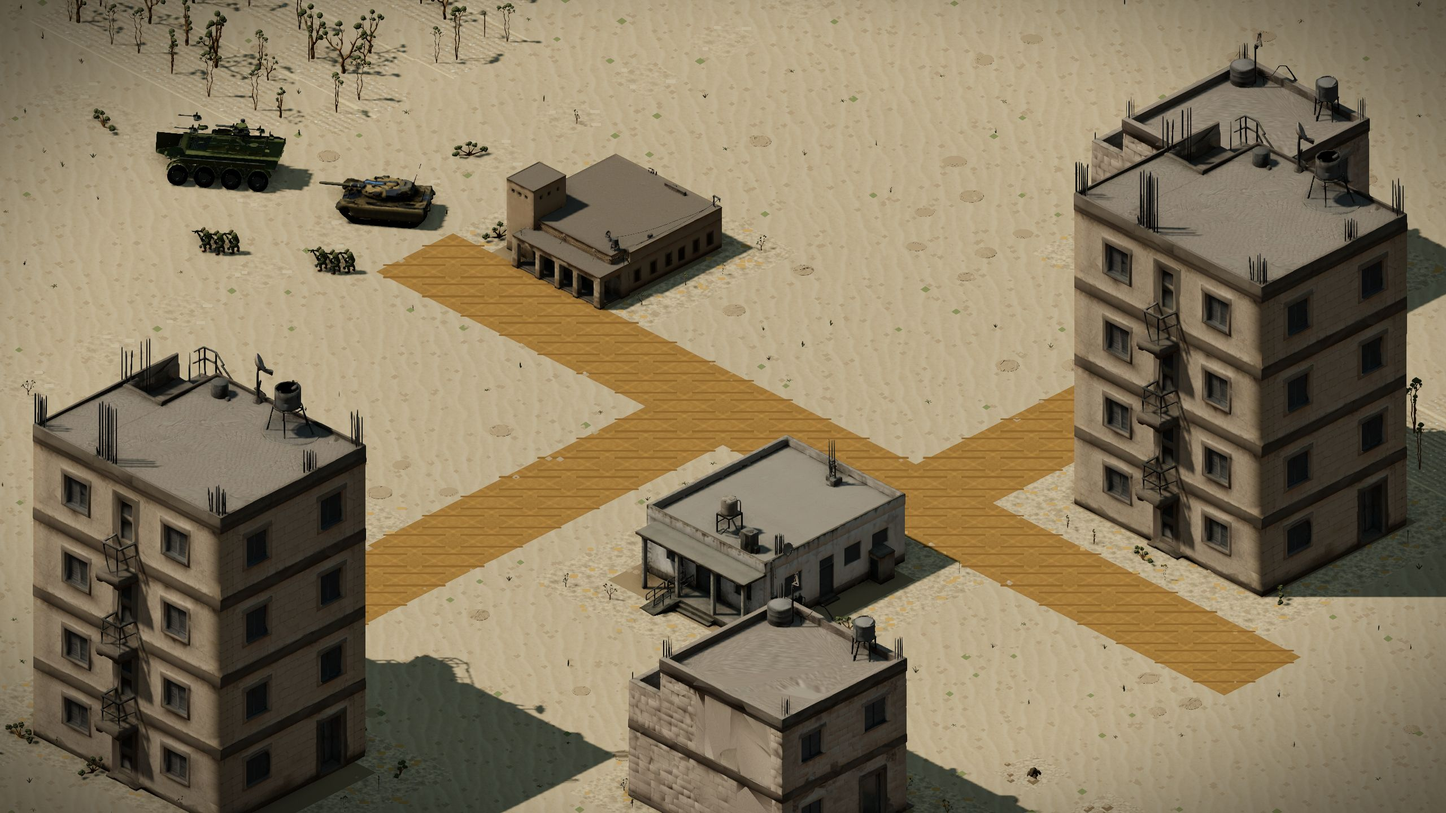
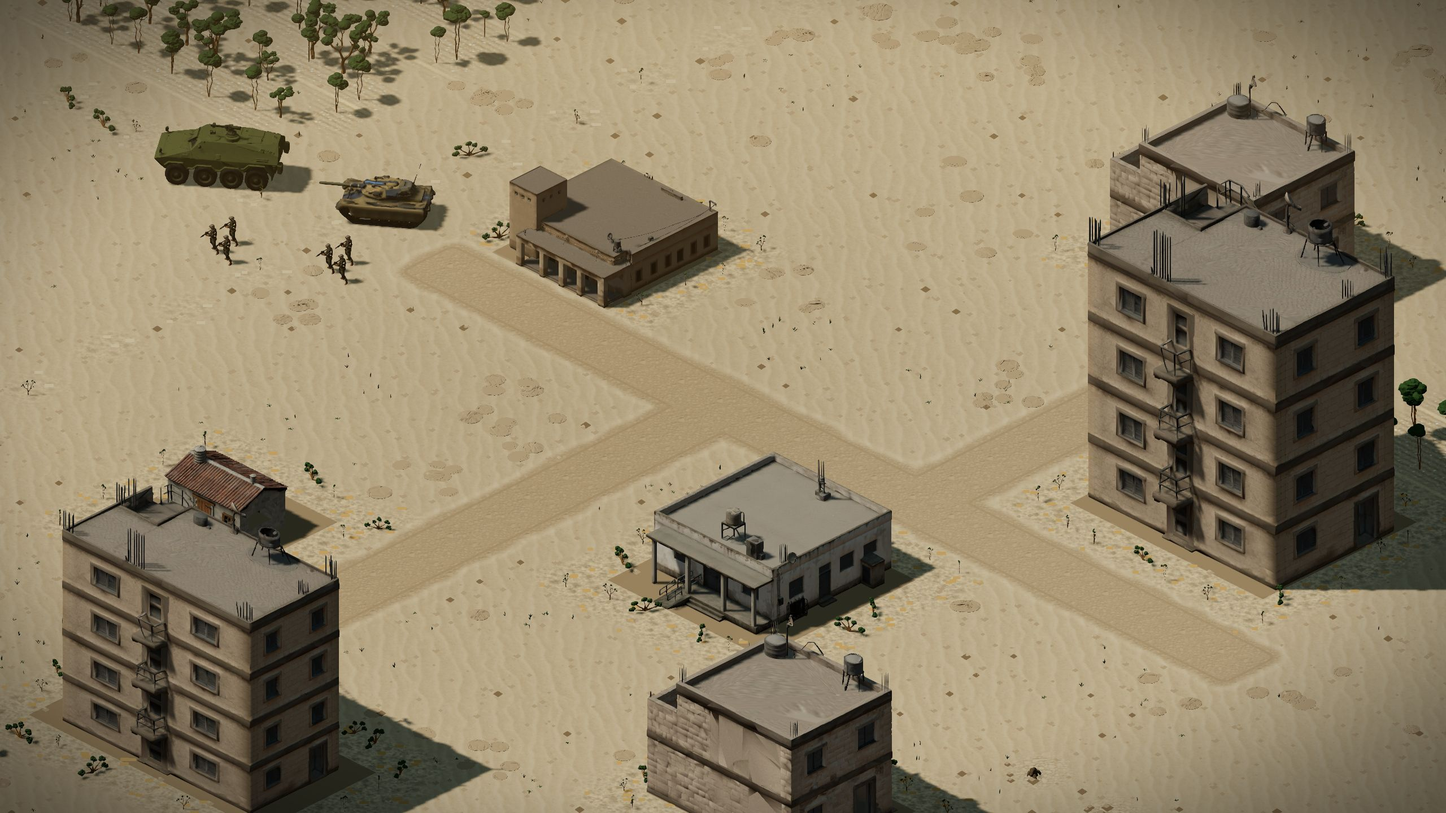
app: foliage moves to scrub, off the KDF olive (VR-05) -- bless after merge (#683)
* app: foliage moves to scrub, off the KDF olive (VR-05)

VR-05 option 1, approved by the lead off the VR-04/05 mock. Every mesh
foliage family (tree, desert_tree, bush, grass, cedar) and the scatter
tussock (`low`) draw scrub.1 on every theme, through a theme `decorColors`
tint (+0 draw calls). Before, they drew the decor ramp's lift, olive.1,
which is the KDF uniform's own albedo; the highland bush was olive.2.
As in the mock, leafDark/Mid/Lit (grove.ts, which draws nothing) and
highland cover are untouched.

Measured on Khan Rafid II and Umm Zeitoun IV with the mock's method
(ΔE2000, unit against foliage):
- arid Namer: 3.8/2.9 -> 11.2/9.4
- highland Namer: 5.5/6.0 -> 13.3/13.5
- arid Eitan: flat, as in the mock (6.1/4.8 -> 6.5/5.0)

tools/src/foliage-figure-ground.test.ts:
- pins every family's foliage key and `low` on every theme;
- adds a figure-ground guard: olive.1 is at least CIE76 15 (cvd.ts
  labDistance) from each drawn foliage tone.
- On main it was red: 6 failures (olive.1 at 0.00).
- Mutation bush -> olive.2 is red at 13.77.
- Mutation arid low -> olive.1 is red.

terrain-defaults.fixture.json is regenerated deliberately for every
non-highland map, because `low` feeds the scatter grain. Reverting `low`
alone passes all 25 pins, so decorColors moves no composed byte.

This moves every gated golden frame, so it needs a bless from CI numbers.
Layer-check floors are left unchanged.
[…]

diff --git a/tools/src/foliage-figure-ground.test.ts b/tools/src/foliage-figure-ground.test.ts
@@ -1,0 +1,198 @@
+/**
+ * VR-05 (option 1, the lead's approval of the VR-04/05 mock): foliage moves
+ * to `scrub.1`, off the KDF olive.
+ *
+ * Before this, every mesh foliage family on every theme drew the decor
+ * `foliage` ramp's lift, `olive.1` -- the SAME key a KDF uniform lifts to
+ * (`units/mesh-role.ts`, the `olive` ramp), so a rifleman in a grove was
+ * olive on olive, and the mock measured an arid Namer against arid foliage at
+ * ΔE2000 2.0-3.6 in the rendered frame. Option 1 tints every foliage family
+ * (`decorColors['<family>:foliage']`) and the scatter tussock (`low`) on arid
+ * and highland with `scrub.1` (green kept as it was, by the lead's ruling), the cedar's approved blue-green -- exactly the mock's
+ * prototype (`terrainTonesFor` writing all five families plus `low`).
+ *
+ * `leafDark`/`leafMid`/`leafLit` are NOT moved, because the mock did not move
+ * them: they feed `grove.ts`, whose layer has drawn nothing since the mesh
+ * trees (CLAUDE.md). Highland `cover` (a ground tint) is not moved either.
+ *
+ * The oracle takes LITERALS: the uniform key and the untinted decor lift are
+ * written here, not imported from the renderer, so a change on either side
+ * cannot shift both halves of the comparison together.
+ */
+import { describe, expect, it } from 'vitest';
+import { paletteColor } from '@lions/data';
+import { TERRAIN_THEMES } from '../../packages/app/src/terrain-themes';
+import { labDistance, toLab } from './cvd';
+
+/** The KDF uniform's lit albedo (`mesh-role.ts`: the `olive` ramp's lift). */
+const KDF_UNIFORM_KEY = 'olive.1';
+/** What an UNTINTED foliage family draws: the decor `foliage` ramp's lift
+ *  (`decor-role.ts`, `sliceFrom('olive', 0)` through `liftTone`, index 1). */
+const UNTINTED_FOLIAGE_KEY = 'olive.1';
+/** Every decor family that carries a `foliage` role. */
+const FOLIAGE_FAMILIES = ['tree', 'desert_tree', 'bush', 'grass', 'cedar'] as const;
+/**
+ * Green is EXCLUDED by the lead's ruling: the Wadi Halam frames were mixed (the
+ * Eitan reads worse on scrub), so green keeps its foliage as it was. It is
+ * pinned UNMOVED below instead.
+ */
+const THEMES = ['arid', 'highland'] as const;
+
+/**
+ * WHAT THIS GUARD IS: a regression pin on the palette-KEY bracket, nothing
+ * more. It refuses `olive.1` and `olive.2` and accepts `scrub.1`, measured as
+ * CIE76 against `olive.1` through `tools/src/cvd.ts` (the repo's colour
+ * instrument). CIE76 against `olive.1`:
+ *   olive.1 0.00 (arid status quo), olive.2 13.77 (highland bush
+ *   status quo), scrub.1 15.89 (option 1), scrub.0 16.29.
+ * The floor of 15 sits between the two keys that bracket the lead's decision
+ * (13.77 refused, 15.89 accepted). It is not a rendered-frame measurement: the
+ * mock measured highland's olive.2 bush leaving the highland Namer at ΔE2000
+ * 7.4 / 7.7 in the frame against option 1's 13.4 / 12.9.
+ *
+ * CIE76 is the WRONG ruler for one neighbour. The same keys in ΔE2000 against
+ * `olive.1`: olive.2 11.77, scrub.1 12.60, scrub.0 9.81. `scrub.0` would
+ * PASS the CIE76 pin (16.29) while being WORSE than `olive.2` in ΔE2000, so
+ * it is refused explicitly below, by its ΔE2000 (a floor of 12, between
+ * scrub.0's 9.81 and scrub.1's 12.60), computed from `cvd.ts`'s Lab.
+ */
+const MIN_FIGURE_GROUND_DE76 = 15;
+
+/** A hex to LINEAR RGB, the input `labDistance` takes (the IEC 61966-2-1
+ *  curve; `cvd.ts` keeps its own decoder private behind `simulate`). */
+const linearHex = (hex: string): readonly [number, number, number] => {
+  const h = hex.replace('#', '');
+  const c = [0, 2, 4].map((i) => parseInt(h.slice(i, i + 2), 16) / 255);
+  return c.map((v) => (v <= 0.04045 ? v / 12.92 : ((v + 0.055) / 1.055) ** 2.4)) as unknown as readonly [
+    number,
+    number,
+    number,
+  ];
+};
+const linear = (key: string): readonly [number, number, number] => linearHex(paletteColor(key));
+
+/** CIEDE2000 between two linear-RGB colours (Sharma et al. 2005), on `cvd.ts`'s Lab. */
+function deltaE2000(
+  c1: readonly [number, number, number],
+  c2: readonly [number, number, number]
+): number {
+  const [L1, a1, b1] = toLab(c1);
+  const [L2, a2, b2] = toLab(c2);
+  const rad = Math.PI / 180;
+  const C1 = Math.hypot(a1, b1);
+  const C2 = Math.hypot(a2, b2);
+  const Cb7 = ((C1 + C2) / 2) ** 7;
+  const G = 0.5 * (1 - Math.sqrt(Cb7 / (Cb7 + 25 ** 7)));
+  const a1p = (1 + G) * a1;
+  const a2p = (1 + G) * a2;
+  const C1p = Math.hypot(a1p, b1);
+  const C2p = Math.hypot(a2p, b2);
+  const h1p = ((Math.atan2(b1, a1p) / rad) + 360) % 360;
+  const h2p = ((Math.atan2(b2, a2p) / rad) + 360) % 360;
+  const dLp = L2 - L1;
+  const dCp = C2p - C1p;
+  let dh = h2p - h1p;
+  if (C1p * C2p === 0) dh = 0;
+  else if (dh > 180) dh -= 360;
+  else if (dh < -180) dh += 360;
+  const dHp = 2 * Math.sqrt(C1p * C2p) * Math.sin((dh * rad) / 2);
+  const Lbp = (L1 + L2) / 2;
+  const Cbp = (C1p + C2p) / 2;
+  let hbp = h1p + h2p;
+  if (C1p * C2p !== 0) {
+    if (Math.abs(h1p - h2p) > 180) hbp = h1p + h2p < 360 ? (hbp + 360) / 2 : (hbp - 360) / 2;
+    else hbp /= 2;
+  }
+  const T =
+    1 -
+    0.17 * Math.cos((hbp - 30) * rad) +
+    0.24 * Math.cos(2 * hbp * rad) +
+    0.32 * Math.cos((3 * hbp + 6) * rad) -
+    0.2 * Math.cos((4 * hbp - 63) * rad);
+  const dTheta = 30 * Math.exp(-(((hbp - 275) / 25) ** 2));
+  const Rc = 2 * Math.sqrt(Cbp ** 7 / (Cbp ** 7 + 25 ** 7));
+  const Sl = 1 + (0.015 * (Lbp - 50) ** 2) / Math.sqrt(20 + (Lbp - 50) ** 2);
+  const Sc = 1 + 0.045 * Cbp;
+  const Sh = 1 + 0.015 * Cbp * T;
+  const Rt = -Math.sin(2 * dTheta * rad) * Rc;
+  return Math.sqrt(
+    (dLp / Sl) ** 2 + (dCp / Sc) ** 2 + (dHp / Sh) ** 2 + Rt * (dCp / Sc) * (dHp / Sh)
+  );
+}
+
+/** The ΔE2000 floor: between scrub.0 (9.81, refused) and scrub.1 (12.60). */
+const MIN_FIGURE_GROUND_DE2000 = 12;
+
+/** The palette KEY a family's foliage resolves to on a theme (by hex). */
+function foliageHex(theme: (typeof THEMES)[number], family: string): string {
+  return TERRAIN_THEMES[theme].decorColors?.[`${family}:foliage`] ?? paletteColor(UNTINTED_FOLIAGE_KEY);
+}
+
+describe('VR-05: green keeps its foliage, by the lead\'s ruling', () => {
+  it('green has no decorColors and its tussock is scrub.0, as on origin/main', () => {
+    expect(TERRAIN_THEMES.green.decorColors).toBeUndefined();
+    expect(TERRAIN_THEMES.green.low).toBe(paletteColor('scrub.0'));
+  });
+});
+
+describe('VR-05: foliage is scrub.1, off the KDF olive (arid and highland)', () => {
+  for (const theme of THEMES) {
+    it(`${theme}: every foliage family and the tussock draw scrub.1`, () => {
+      for (const family of FOLIAGE_FAMILIES) {
+        expect(foliageHex(theme, family), `${theme} ${family}:foliage`).toBe(paletteColor('scrub.1'));
+      }
+      expect(TERRAIN_THEMES[theme].low, `${theme} low`).toBe(paletteColor('scrub.1'));
+    });
+
+    it(`${theme}: the KDF uniform (olive.1) is at least ΔE76 ${MIN_FIGURE_GROUND_DE76} from every foliage tone`, () => {
+      const uniform = linear(KDF_UNIFORM_KEY);
+      const tones: Array<[string, string]> = FOLIAGE_FAMILIES.map((f) => [`${f}:foliage`, foliageHex(theme, f)]);
+      tones.push(['low', TERRAIN_THEMES[theme].low]);
+      for (const [name, hex] of tones) {
+        const d = labDistance(uniform, linearHex(hex));
+        expect(d, `${theme} ${name} (${hex}) vs ${KDF_UNIFORM_KEY}: ΔE76 ${d.toFixed(2)}`).toBeGreaterThanOrEqual(
+          MIN_FIGURE_GROUND_DE76
+        );
+      }
+    });
+  }
+
+  it('refuses scrub.0: it passes the CIE76 pin and fails ΔE2000, so foliage must be scrub.1 on ΔE2000 too', () => {
+    const u = linear(KDF_UNIFORM_KEY);
+    const d = (k: string) => deltaE2000(u, linear(k));
+    expect(d('olive.2')).toBeCloseTo(11.77, 1);
+    expect(d('scrub.1')).toBeCloseTo(12.6, 1);
+    expect(d('scrub.0')).toBeCloseTo(9.81, 1);
+    // the CIE76 pin alone would let scrub.0 through
+    expect(labDistance(u, linear('scrub.0'))).toBeGreaterThanOrEqual(MIN_FIGURE_GROUND_DE76);
+    expect(d('scrub.0')).toBeLessThan(MIN_FIGURE_GROUND_DE2000);
+    expect(d('olive.2')).toBeLessThan(MIN_FIGURE_GROUND_DE2000);
+    expect(d('scrub.1')).toBeGreaterThanOrEqual(MIN_FIGURE_GROUND_DE2000);
+  });
+
+  for (const theme of THEMES) {
+    it(`${theme}: every foliage tone is at least ΔE2000 ${MIN_FIGURE_GROUND_DE2000} from the KDF uniform`, () => {
+      const uniform = linear(KDF_UNIFORM_KEY);
+      const tones: Array<[string, string]> = FOLIAGE_FAMILIES.map((f) => [`${f}:foliage`, foliageHex(theme, f)]);
+      tones.push(['low', TERRAIN_THEMES[theme].low]);
+      for (const [name, hex] of tones) {
+        const d = deltaE2000(uniform, linearHex(hex));
+        expect(d, `${theme} ${name} (${hex}): ΔE2000 ${d.toFixed(2)}`).toBeGreaterThanOrEqual(MIN_FIGURE_GROUND_DE2000);
+      }
+    });
+  }
+
+  it('leaves the procedural canopy and highland cover where the mock left them', () => {
+    expect([TERRAIN_THEMES.arid.leafDark, TERRAIN_THEMES.arid.leafMid, TERRAIN_THEMES.arid.leafLit]).toEqual(
+      ['olive.2', 'olive.1', 'olive.0'].map(paletteColor)
+    );
+    expect(TERRAIN_THEMES.highland.cover).toEqual(['olive.1', 'olive.2', 'olive.3'].map(paletteColor));
+  });
+
+  it('the instrument is live: olive.1 and olive.2 fall under the floor, scrub.1 clears it', () => {
+    const u = linear(KDF_UNIFORM_KEY);
+    expect(labDistance(u, linear('olive.1'))).toBeLessThan(MIN_FIGURE_GROUND_DE76);
+    expect(labDistance(u, linear('olive.2'))).toBeLessThan(MIN_FIGURE_GROUND_DE76);
+    expect(labDistance(u, linear('scrub.1'))).toBeGreaterThanOrEqual(MIN_FIGURE_GROUND_DE76);
+  });
+});

diff --git a/packages/app/src/terrain-themes.ts b/packages/app/src/terrain-themes.ts
@@ -29,6 +29,29 @@
 import { paletteColor, type GroveSpecies, type ParsedMap, type TerrainTheme } from '@lions/data';
 import type { GroveFamily, TerrainTones } from '@lions/render';
 
+/**
+ * VR-05 (option 1, approved by the lead off the VR-04/05 mock): every mesh
+ * foliage family and the scatter tussock (`low`) draw `scrub.1`, the cedar's
+ * blue-green, on the arid and highland themes. Untinted, foliage drew the
+ * decor ramp's lift, `olive.1` -- the KDF uniform's own albedo, so a squad in a grove was olive
+ * on olive, and a Namer's olive bake sat within ΔE2000 2.0-3.6 of arid
+ * foliage. A theme `decorColors` tint is an instance tone (+0 draw calls, the
+ * channel GH-322's highland already used). `leafDark/Mid/Lit` stay: they feed
+ * `grove.ts`, which draws nothing since the mesh trees, and the mock left them.
+ * GREEN is left as it was (the lead's ruling): the Wadi Halam frames were
+ * mixed, the Eitan reads worse on scrub, so green carries no `decorColors` and
+ * its `low` stays `scrub.0`.
+ * Pinned by `tools/src/foliage-figure-ground.test.ts`.
+ */
+const FOLIAGE = paletteColor('scrub.1');
+const FOLIAGE_DECOR_COLORS: Readonly<Record<string, string>> = {
+  'tree:foliage': FOLIAGE,
+  'desert_tree:foliage': FOLIAGE,
+  'bush:foliage': FOLIAGE,
+  'grass:foliage': FOLIAGE,
+  'cedar:foliage': FOLIAGE,
+};
+
 export const TERRAIN_THEMES: Record<TerrainTheme, TerrainTones> = {
   arid: {
     open: paletteColor('limestone.3'),
@@ -44,7 +67,7 @@ export const TERRAIN_THEMES: Record<TerrainTheme, TerrainTones> = {
     rock: paletteColor('limestone.6'),
     rockLit: paletteColor('limestone.3'),
     earth: paletteColor('terracotta.2'),
-    low: paletteColor('olive.1'),
+    low: FOLIAGE,
     trunk: paletteColor('dust.5'),
     trunkLit: paletteColor('dust.3'),
     leafDark: paletteColor('olive.2'),
@@ -65,6 +88,7 @@ export const TERRAIN_THEMES: Record<TerrainTheme, TerrainTones> = {
     groveFamily: 'desert_tree',
     // N-18: the haze is dust, not fog -- the desert's own lightest dust.
     haze: paletteColor('dust.0'),
+    decorColors: FOLIAGE_DECOR_COLORS,
   },
   green: {
     open: paletteColor('grass.2'),
@@ -135,7 +159,7 @@ export const TERRAIN_THEMES: Record<TerrainTheme, TerrainTones> = {
     rock: paletteColor('karst.3'),
     rockLit: paletteColor('karst.1'),
     earth: paletteColor('terracotta.2'),
-    low: paletteColor('olive.2'),
+    low: FOLIAGE,
     trunk: paletteColor('dust.5'),
     trunkLit: paletteColor('dust.3'),
     leafDark: paletteColor('olive.3'),
@@ -155,9 +179,9 @@ export const TERRAIN_THEMES: Record<TerrainTheme, TerrainTones> = {
     decorColors: {
       // The lead's pick: cedar needles on scrub.1, a deep blue-green that
       // reads as a conifer under the sun where olive reads as an olive.
-      'cedar:foliage': paletteColor('scrub.1'),
-      // Grey-green garrigue, one olive step darker than the ramp's own lift.
-      'bush:foliage': paletteColor('olive.2'),
+      // VR-05 then took every foliage family there (`FOLIAGE_DECOR_COLORS`);
+      // the highland bush was olive.2, one step off the KDF uniform.
+      ...FOLIAGE_DECOR_COLORS,
       // Left at limestone.6 the chips and outcrops read as orange crumbs on
       // the earth; grey limestone, the ridge walls' own family.
       'boulder:rock': paletteColor('karst.2'),

diff --git a/packages/app/src/renderer-options.test.ts b/packages/app/src/renderer-options.test.ts
@@ -54,13 +54,19 @@ describe('rendererOptionsFor', () => {
     expect(rendererOptionsFor(parseMap(maps.qarn_hadid), HIGH, '/').terrainTones).toBe(TERRAIN_THEMES.highland);
   });
 
+  // VR-05 gave arid (not green, by the lead's ruling; pinned in
+  // tools/src/foliage-figure-ground.test.ts) a foliage `decorColors` tint; the
+  // rest stays highland-only.
   it('gives arid and green none of the highland-only fields, so they draw as before', () => {
     for (const t of [TERRAIN_THEMES.arid, TERRAIN_THEMES.green]) {
       expect(t.paletteRamps).toBeUndefined();
-      expect(t.decorColors).toBeUndefined();
       expect(t.openScatter).toBeUndefined();
       expect(t.macroHue).toBeUndefined();
     }
+    expect(Object.keys(TERRAIN_THEMES.arid.decorColors ?? {}).sort()).toEqual(
+      ['bush', 'cedar', 'desert_tree', 'grass', 'tree'].map((f) => `${f}:foliage`).sort()
+    );
+    expect(TERRAIN_THEMES.green.decorColors).toBeUndefined();
   });
 
   it('serves every ground texture from the deploy base', () => {

diff --git a/packages/render/src/three/terrain/decor-role.ts b/packages/render/src/three/terrain/decor-role.ts
@@ -27,7 +27,9 @@ function sliceFrom(band: string, index: number): readonly string[] {
 }
 
 const DECOR_ROLE_PALETTE: Record<DecorMeshRole, readonly string[]> = {
-  // Living green, distinct from the olive a KDF uniform uses.
+  // The UNTINTED foliage lift is olive.1, the same key a KDF uniform lifts to;
+  // every theme overrides it with `scrub.1` through `decorColors` (VR-05), so
+  // a unit in a grove is not olive on olive.
   // OLIVE, not scrub. The procedural canopy this replaced shaded its leaves
   // through `terrain-themes.ts`'s `leafDark`/`leafMid`/`leafLit` = olive.2/1/0
   // -- a muted grey-green with three steps. `scrub` is a bright, saturated

diff --git a/packages/app/src/terrain-defaults.test.ts b/packages/app/src/terrain-defaults.test.ts
@@ -13,6 +13,9 @@
  * `composeTerrain` result (ground, scatter, residual, building boxes, decor
  * and prop placements) for every non-highland shipped map, hashed, against
  * hashes recorded at `origin/main` 7dc3d134 -- the commit before the biome.
+ * The ARID pins were REGENERATED for VR-05 (tussock `low` and foliage moved to
+ * `scrub.1`: a deliberate change to how arid maps draw). Green maps keep
+ * `origin/main`'s pins, by the lead's ruling that green keeps its foliage.
  *
  * The tones come through `rendererOptionsFor`, the app's one route from a map
  * to its `TerrainTones`, so a per-map grove override that leaked onto a map
